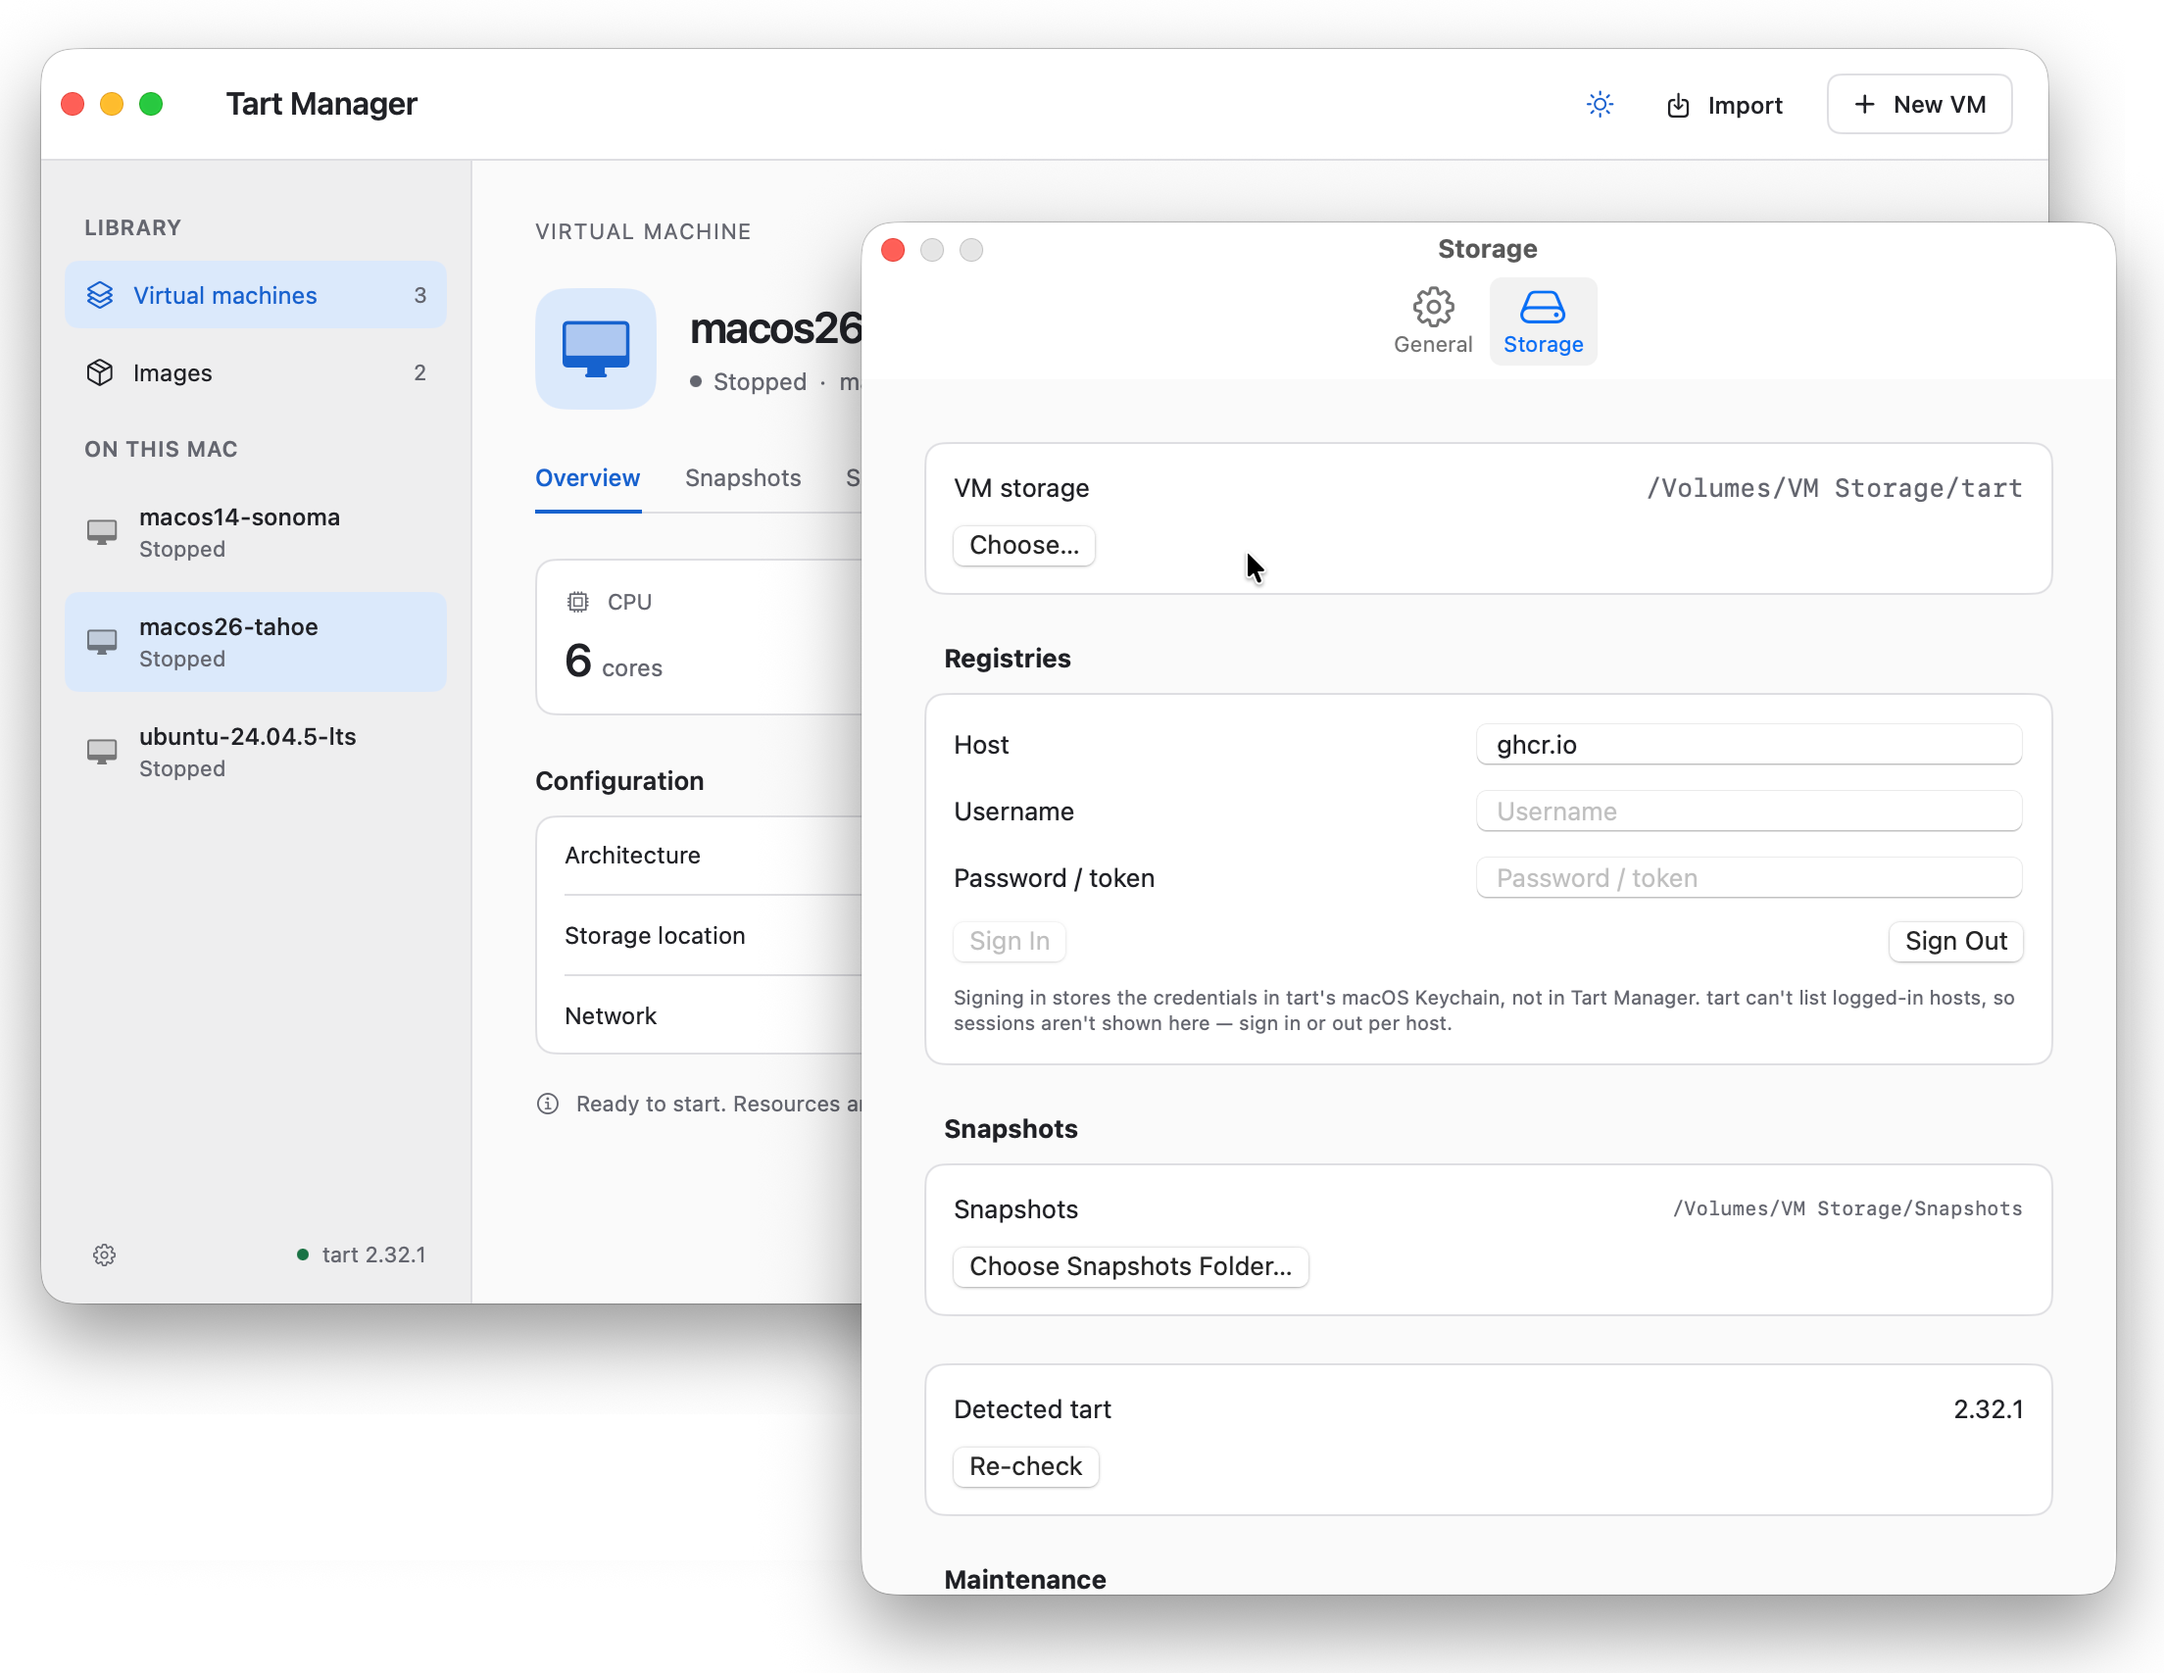
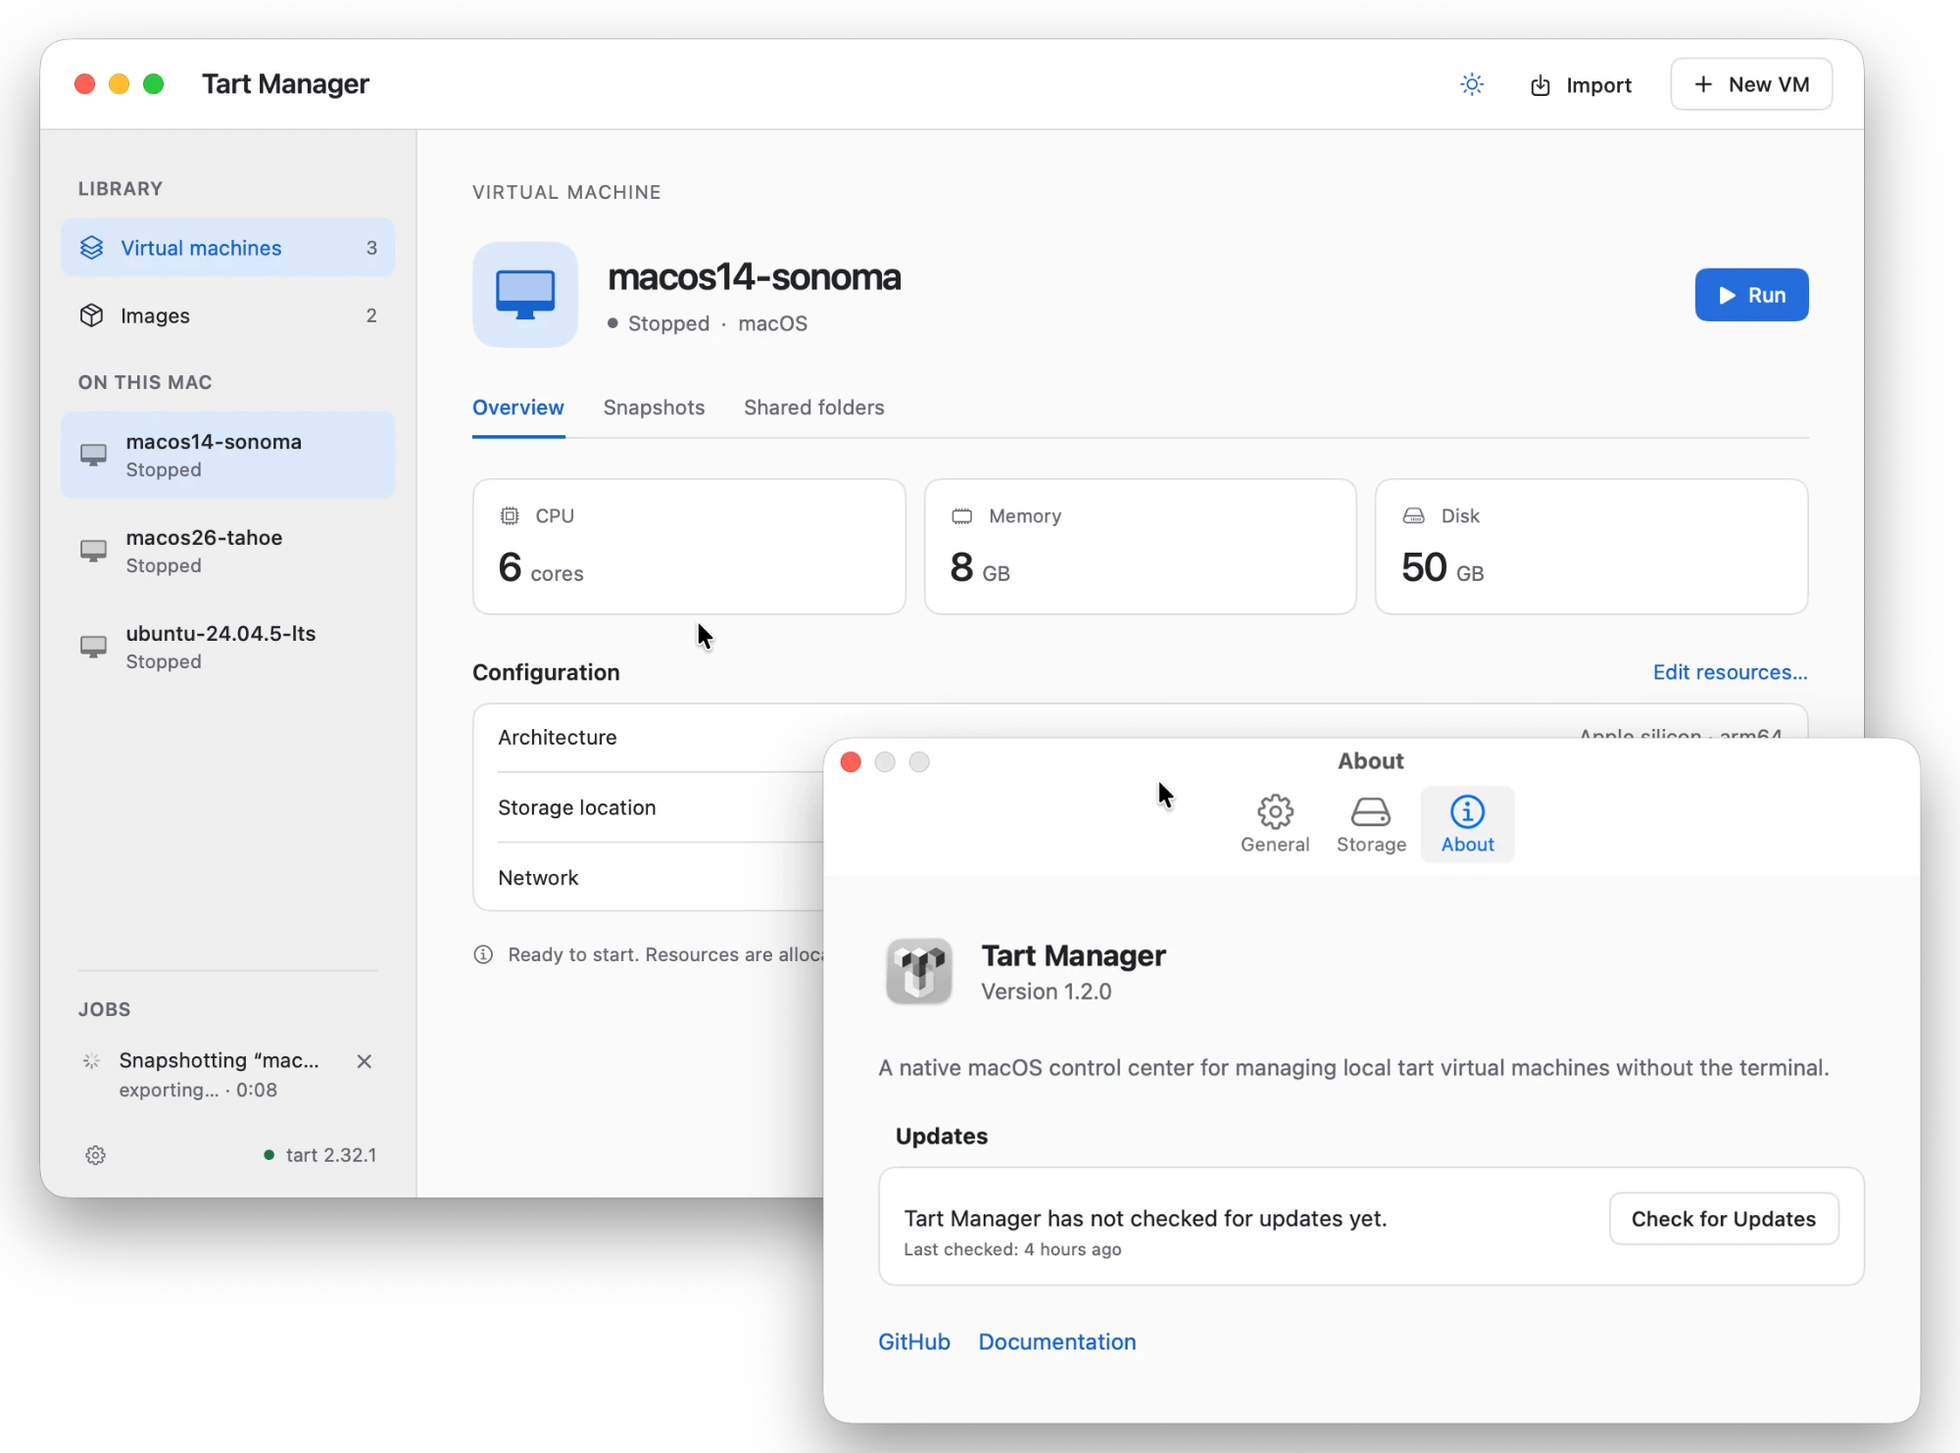
docs: refresh README screenshot

diff --git a/README.md b/README.md
@@ -11,7 +11,7 @@ inventory a macOS interface.
 <p align="center">
   <img
     src="Assets/TartManager.png"
-    alt="Tart Manager showing local virtual machines and storage settings"
+    alt="Tart Manager showing a VM overview and the About settings with update checks"
     width="900">
 </p>
 
